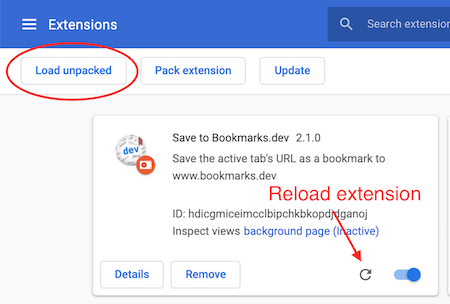
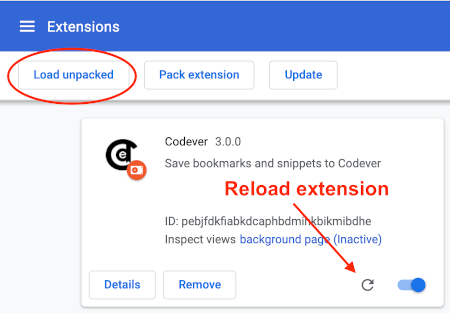
feat(migrate-to-codever): update url and pics in README.md

Changed region(s): [[0.0, 0.0, 1.0, 0.3553], [0.1867, 0.3849, 1.0, 1.0], [0.2178, 0.4145, 0.8711, 0.5921]]

diff --git a/README.md b/README.md
@@ -65,8 +65,8 @@ Go to [about:debugging#/runtime/this-firefox](about:debugging#/runtime/this-fire
 
 ![Install locally on Firefox](assets/img/chrome-install-locally-and-reload-extension.png)
 
-### Test the extension against the [`localhost`](https://github.com/CodeverLand/bookmarks.dev) version of Codever.land
-Change the following line in [launch-bookmarksdev-dialog](launch-codever-dialog.js):
+### Test the extension against the [`localhost`](https://github.com/codeverland/codever) version of Codever.land
+Change the following line in [launch-codever-dialog.js](launch-codever-dialog.js):
 ```
 open('https://www.codever.land/personal/new?url=' + encodeURIComponent(l) + '&desc=' + encodeURIComponent(d) + '&title=' + encodeURIComponent(t) + '&popup=true', 'Codever.land', features);
 ```
@@ -92,7 +92,7 @@ or with the _standard_ `zip` command:
 zip -r bookmarks.browser.extension.zip * -x *.idea* *.git* '*resources/*' '*assets/*' "*README.md*" "*CHANGELOG.md*" '*web-ext-artifacts/*'
 ```
 
-### Publish to Goo$gle Chrome Webstore
+### Publish to Google Chrome Webstore
 Go to [Chrome Webstore Dashboard](https://chrome.google.com/webstore/developer/dashboard) where
 you upload the .zip file. Wait for a couple of business days for an approval.
 
